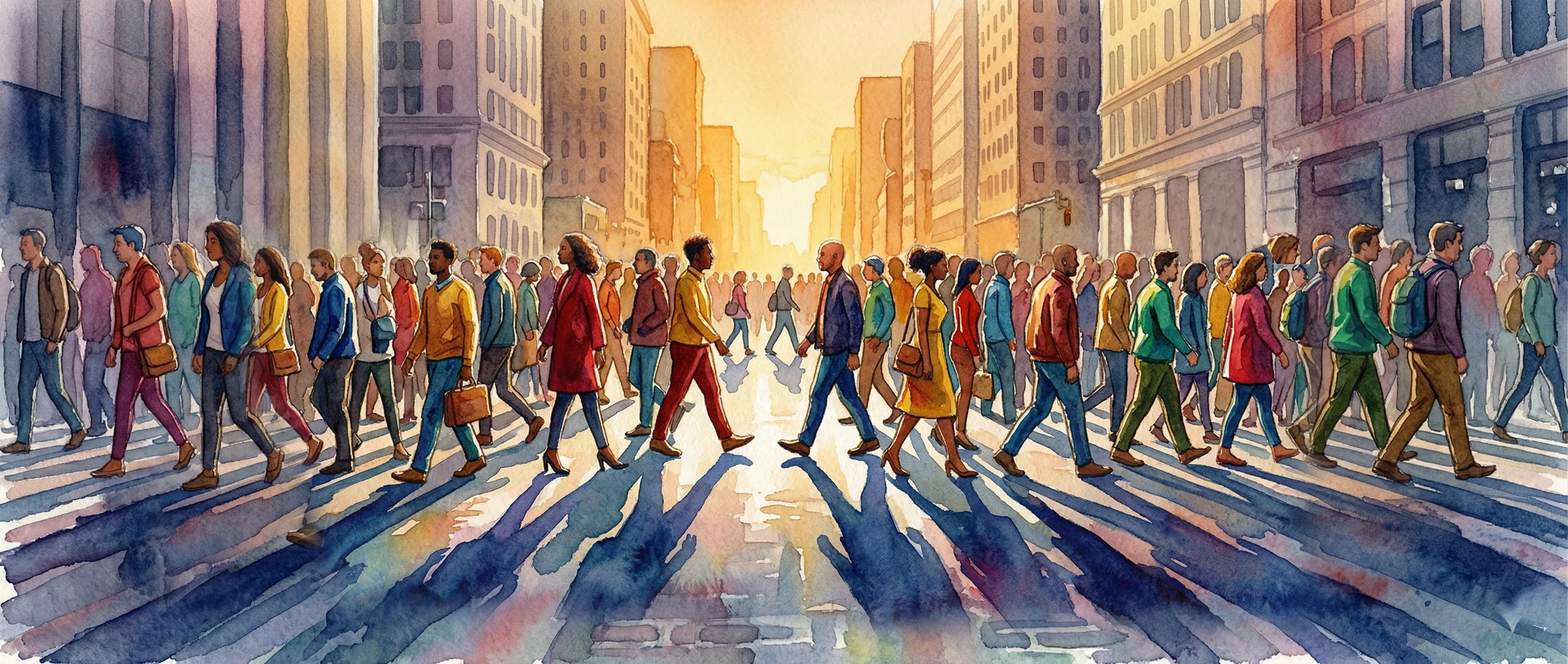
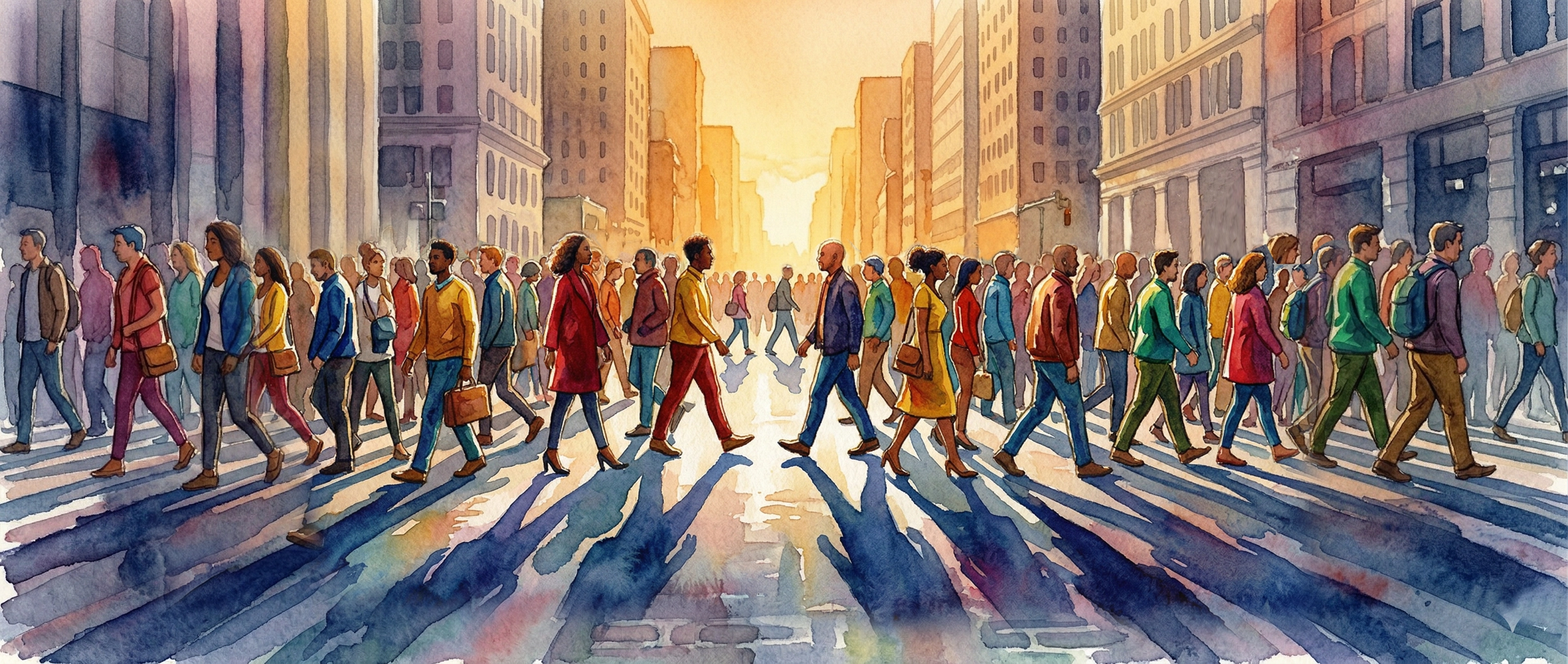
Update Scene 05 image and adjust Crystal Ball mask timing
- Replace 5smallerthanme2.webp with updated version
- Shift Crystal Ball mask start from 2:17 to 2:16 (MASK_START 137→136)

Changed region(s): [[0.3433, 0.3438, 0.4057, 0.5938]]

diff --git a/js/scenes/08-crystal-ball.js b/js/scenes/08-crystal-ball.js
@@ -321,7 +321,7 @@
   maskLayer.appendChild(maskT);
   imageFrame.insertBefore(maskLayer, imageFrame.lastElementChild); /* smoke SVG 앞 */
 
-  const MASK_START = 137;  /* 2:17 */
+  const MASK_START = 136;  /* 2:16 */
   const MASK_END   = 153;  /* 2:33 */
 
   window.addEventListener('audioTimeUpdate', (e) => {
